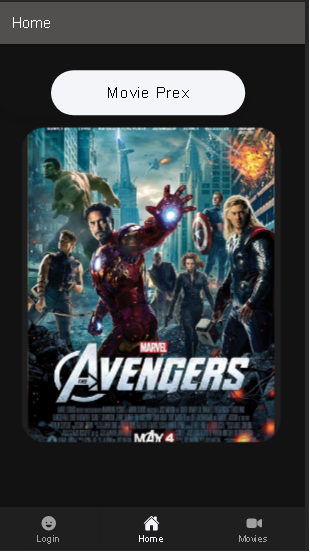
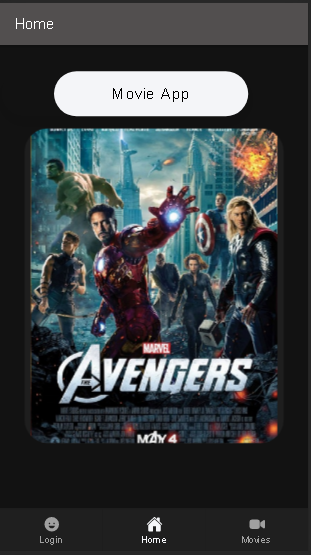
detalles

diff --git a/src/app/home/home.page.html b/src/app/home/home.page.html
@@ -14,7 +14,7 @@
 
   <ion-content [fullscreen]="true">
     
-    <ion-button routerLink="/tabs/movies" expand="block" shape="round">Movie Prex</ion-button>
+    <ion-button routerLink="/tabs/movies" expand="block" shape="round">Movie App</ion-button>
  
   <ion-slides [options]="option" class="ion-margin-top">
     

diff --git a/README.md b/README.md
@@ -1,6 +1,6 @@
-# Prueba PREX
+# Movie App
 
-Primera vez que utilizo este framework  
+Primera vez que utilizo este framework Ionic  
 
 ## Screenshots
 
